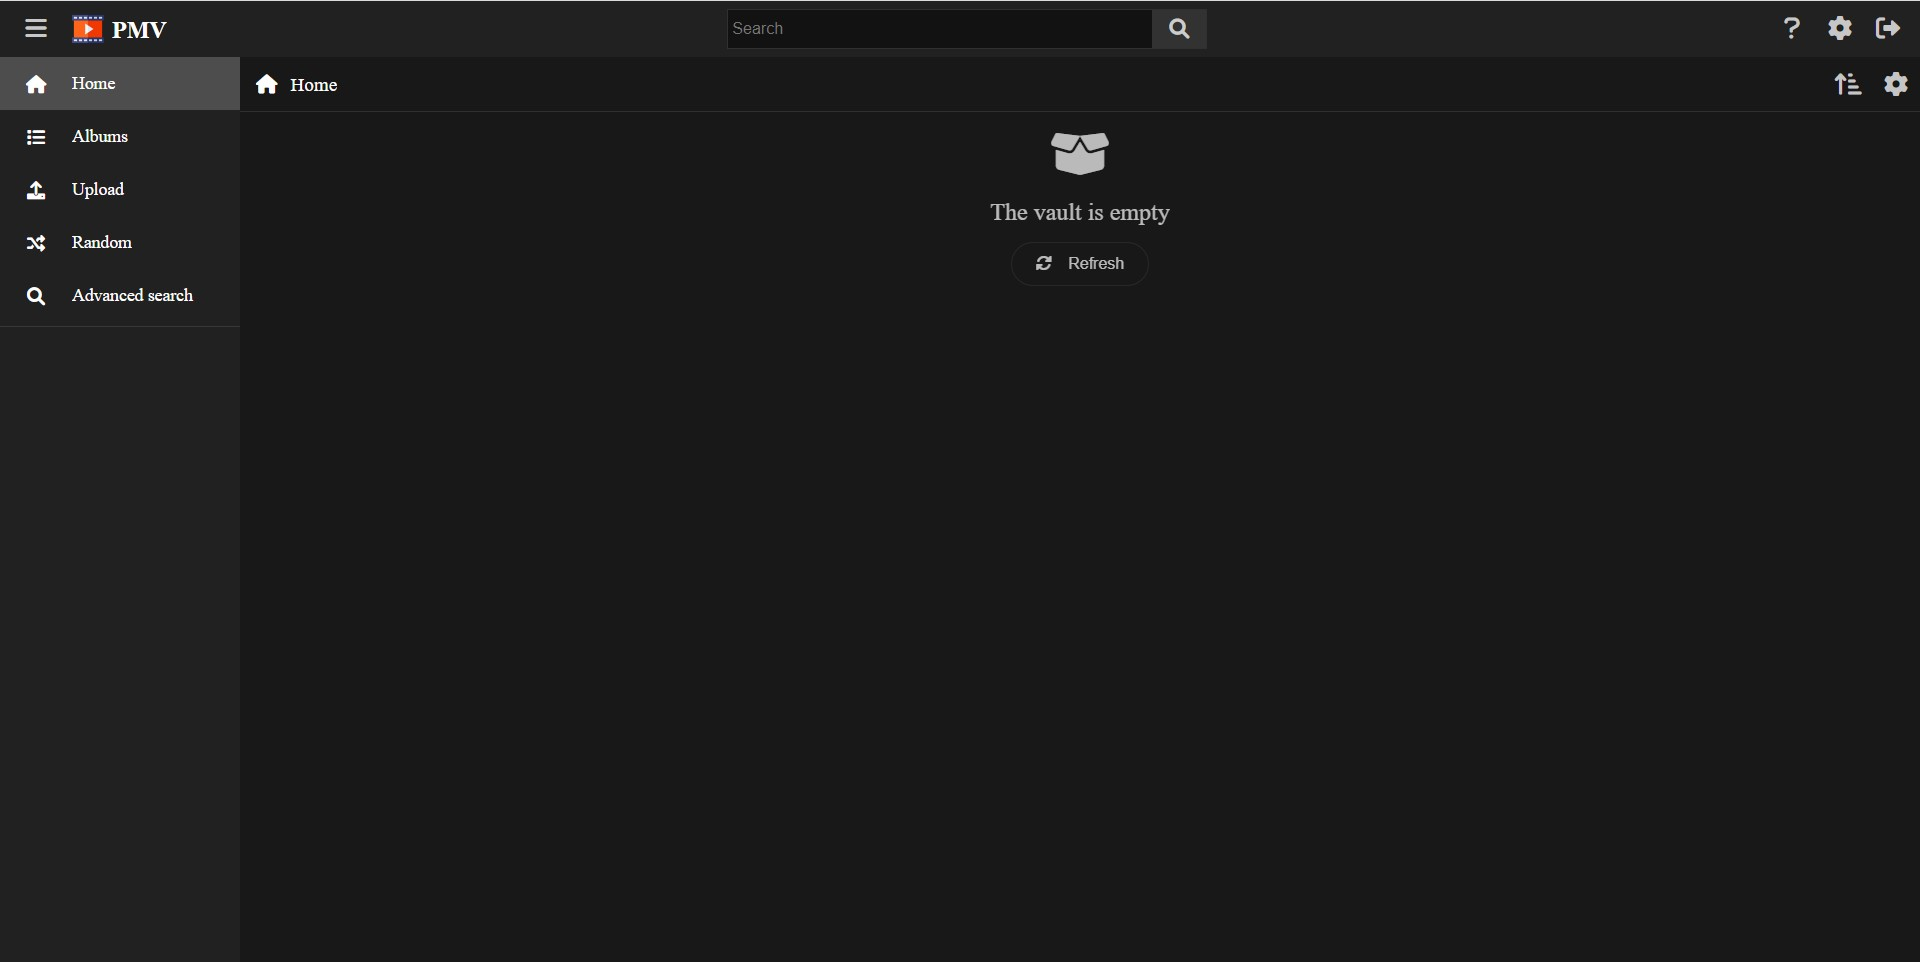
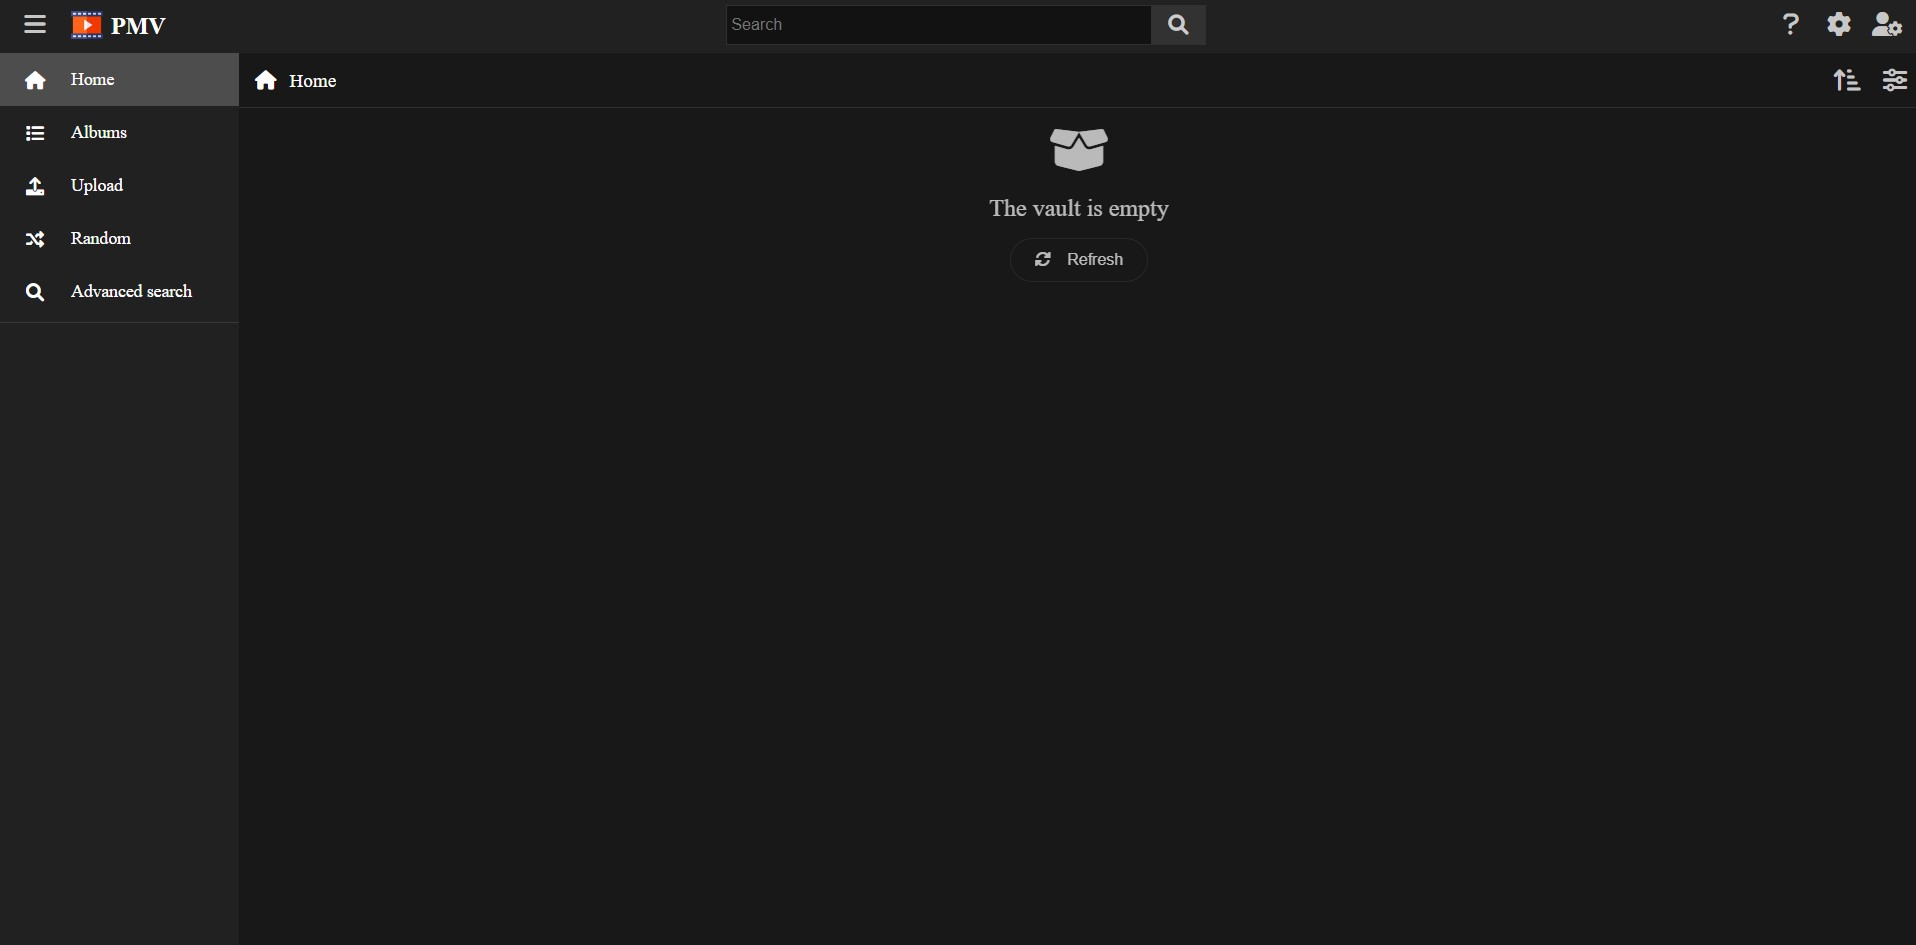
Update 01 tutorial section

diff --git a/content/en/docs/Tutorials/01-setting-up-everything.md b/content/en/docs/Tutorials/01-setting-up-everything.md
@@ -44,7 +44,7 @@ The top bar buttons are the following, from left to right:
 
  - The question mark button will display the help menu, letting you know the current version of your PersonalMediaVault instance or giving your information about the documentation or the keyboard shortcuts.
  - The cog button will display the vault settings menu. We'll explain this menu in details in the next section of this tutorial.
- - The log out button will display a confirmation modal asking you to close the vault session and lock the vault.
+ - The user with cog button will display the account settings menu. We'll explain this menu in details in the next section of this tutorial.
 
 ## Vault settings menu
 
@@ -69,42 +69,6 @@ By default, PersonalMediaVault will detect your browser language.
 By selecting your preferred language, PersonalMediaVault will save that preference in the local storage of your browser. In order to remember it in future sessions.
 
 > Isn't your language yet supported? Feel free to contribute with a [pull request](https://github.com/AgustinSRG/PersonalMediaVault/pulls) to add a new language. In order to add a new language, check the [frontend/src/locales](https://github.com/AgustinSRG/PersonalMediaVault/tree/master/frontend/src/locales) folder. Copy `locale-en.json` and translate every key to your language.
-
-### Change username
-
-Click in the **Change username** option in order to change your username. This is the username you use to unlock the vault.
-
-In order to change it, you must also provide your current password.
-
-![Screenshot]({{< baseurl >}}images/en/change-username.jpg)
-
-### Change password
-
-Click in the **Change password** option in order to change your password. This is the password you use to unlock the vault.
-
-In order to change it, you must also provide your current password.
-
-Make sure to use a very strong password, using letters (uppercase and lowercase), numbers and symbols. 
-
-Is it recommended to use a password manager, and making a backup of your password. If you lose your password, it will be impossible to recover the vault content, since it's encrypted with that password.
-
-![Screenshot]({{< baseurl >}}images/en/change-password.jpg)
-
-### Invite
-
-Click in the **Invite** option in order to invite users or devices to access the vault.
-
-This feature will allow you to generate single-use codes that can be used to access the vault in read-only mode.
-
-![Screenshot]({{< baseurl >}}images/en/invite-code-modal.jpg)
-
-### Administrate accounts
-
-The **Administrate accounts** option will show you a list of extra accounts for your vault, allowing you to create new ones or delete existing ones.
-
-This feature is useful when you have family or friend you want to share the vault with. You can make read-only accounts for them.
-
-If this use case does not fit your needs, you can just ignore this option.
 
 ### Tasks
 
@@ -150,3 +114,61 @@ You can apply any of the following operations:
 This can be useful if you want to make a change to many media assets, saving you time.
 
 ![Screenshot]({{< baseurl >}}images/en/batch-operation.jpg)
+
+### Clear browser data
+
+The **Clear browser data** option will let you clear the data stored in the browser by PersonalMediaVault.
+
+This data is stored for convenience, in order to remember thing like your favorites list, the time you left a media playing at, or the preferences you set (theme, language, sizes, etc.).
+
+You can clear this data in order to reset to the default values or to remove any track of your usage.
+
+![Screenshot]({{< baseurl >}}images/en/clear-browser-data.jpg)
+
+## Account settings menu
+
+The account settings menu has all the options you need to manage the vault account.
+
+![Screenshot]({{< baseurl >}}images/en/account-settings.jpg)
+
+### Change username
+
+Click in the **Change username** option in order to change your username. This is the username you use to unlock the vault.
+
+In order to change it, you must also provide your current password.
+
+![Screenshot]({{< baseurl >}}images/en/change-username.jpg)
+
+### Change password
+
+Click in the **Change password** option in order to change your password. This is the password you use to unlock the vault.
+
+In order to change it, you must also provide your current password.
+
+Make sure to use a very strong password, using letters (uppercase and lowercase), numbers and symbols. 
+
+Is it recommended to use a password manager, and making a backup of your password. If you lose your password, it will be impossible to recover the vault content, since it's encrypted with that password.
+
+![Screenshot]({{< baseurl >}}images/en/change-password.jpg)
+
+### Invite
+
+Click in the **Invite** option in order to invite users or devices to access the vault.
+
+This feature will allow you to generate single-use codes that can be used to access the vault in read-only mode.
+
+![Screenshot]({{< baseurl >}}images/en/invite-code-modal.jpg)
+
+### Administrate accounts
+
+The **Administrate accounts** option will show you a list of extra accounts for your vault, allowing you to create new ones or delete existing ones.
+
+This feature is useful when you have family or friend you want to share the vault with. You can make read-only accounts for them.
+
+If this use case does not fit your needs, you can just ignore this option.
+
+### Close vault
+
+The **Close vault** option will close the current session, locking the vault and redirecting you to the login screen.
+
+Close the vault when you are not using it to prevent unwanted access.
